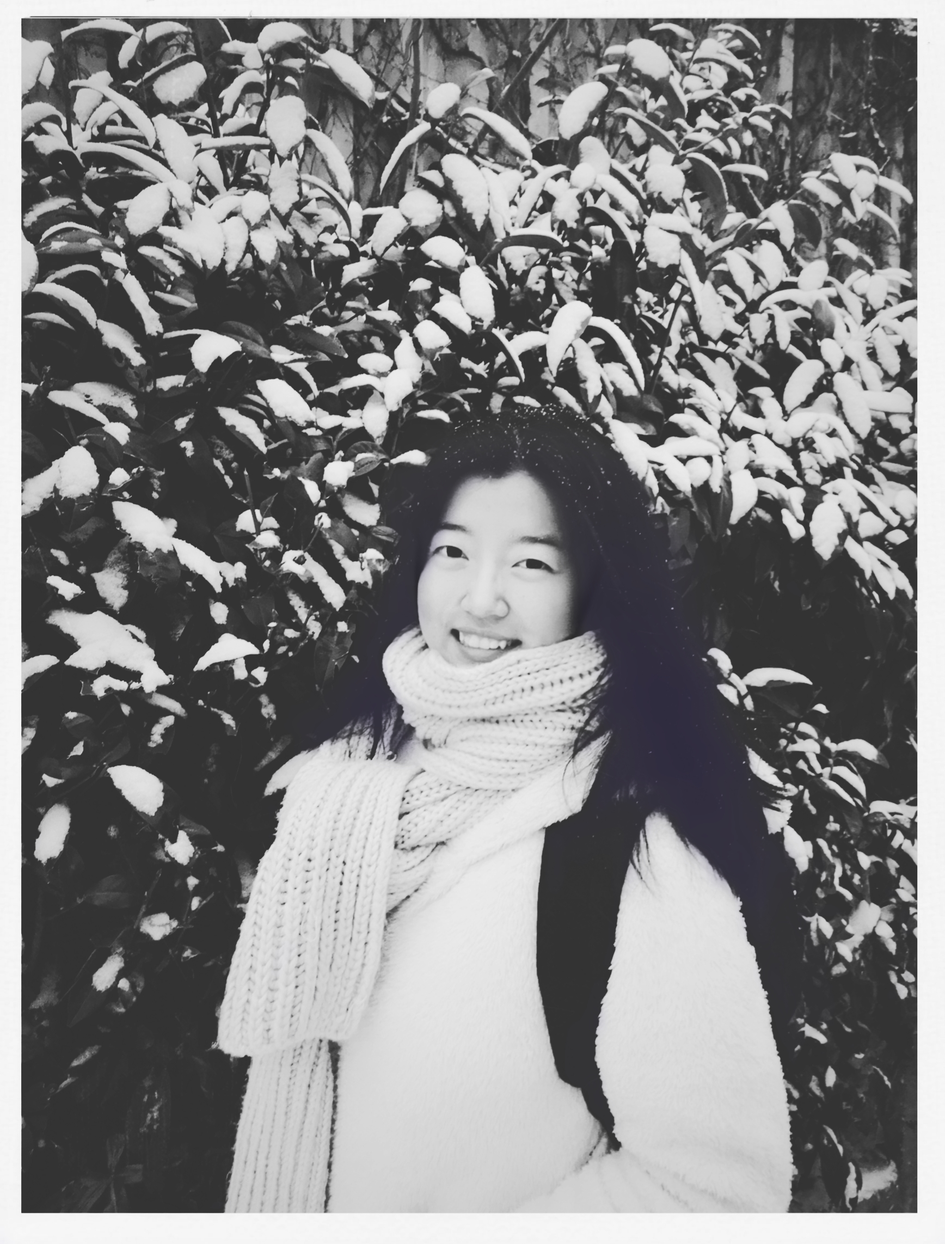
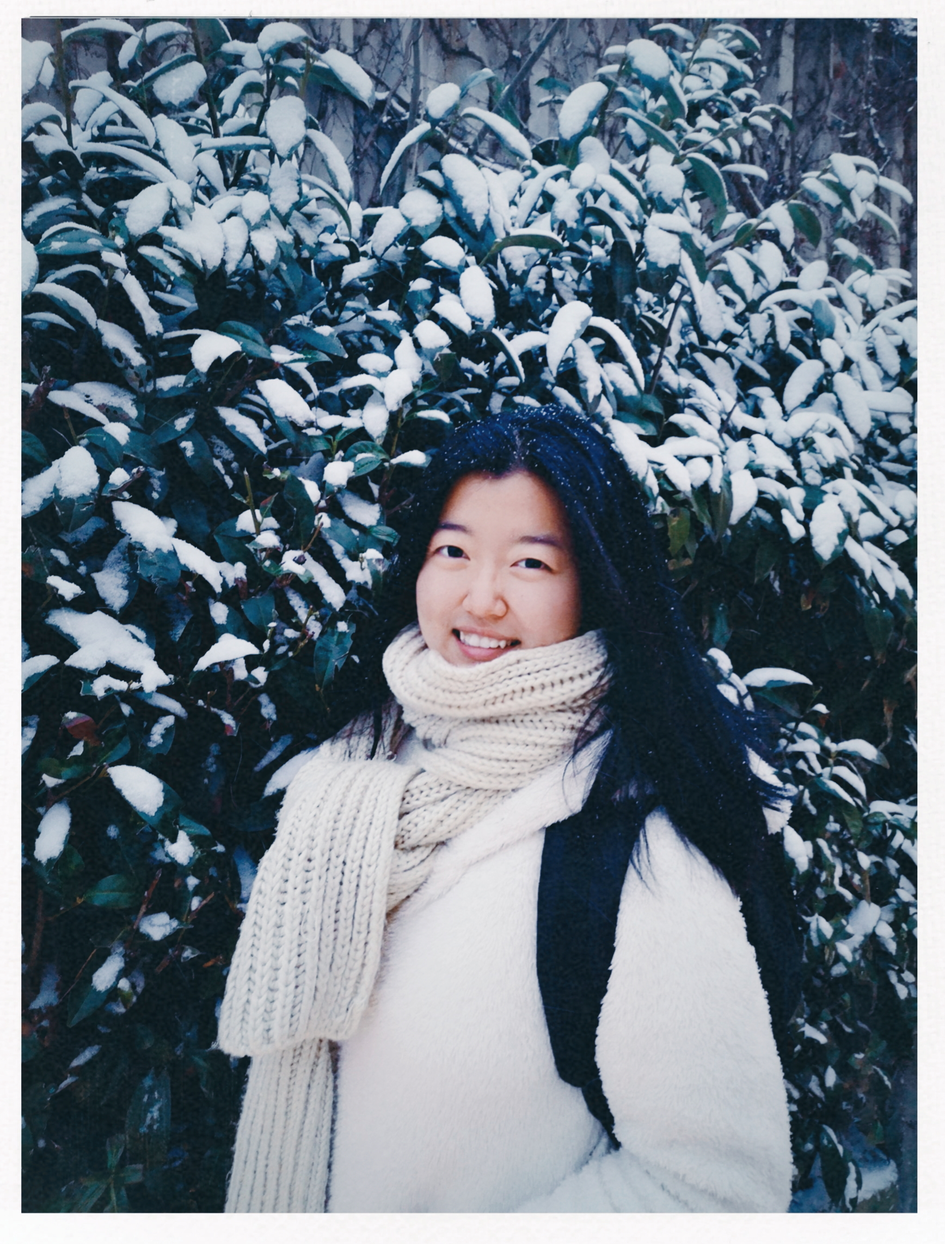
update

diff --git a/index.html b/index.html
@@ -43,7 +43,7 @@
         <div class="container">
             <div class="row">
                 <div class="col-xs-4">
-                    <img id="me-img" src="images/snowing.jpeg">
+                    <img id="me-img" src="images/snowing2.jpeg">
 
                     <div style="margin-top: 10%; margin-left: 20%; font-size: small; color: blue">Jan 22nd, 2019</div>
                     <div style="margin-left: 10%; font-size: small; color: blue">First snow in Aachen, Germany</div>
